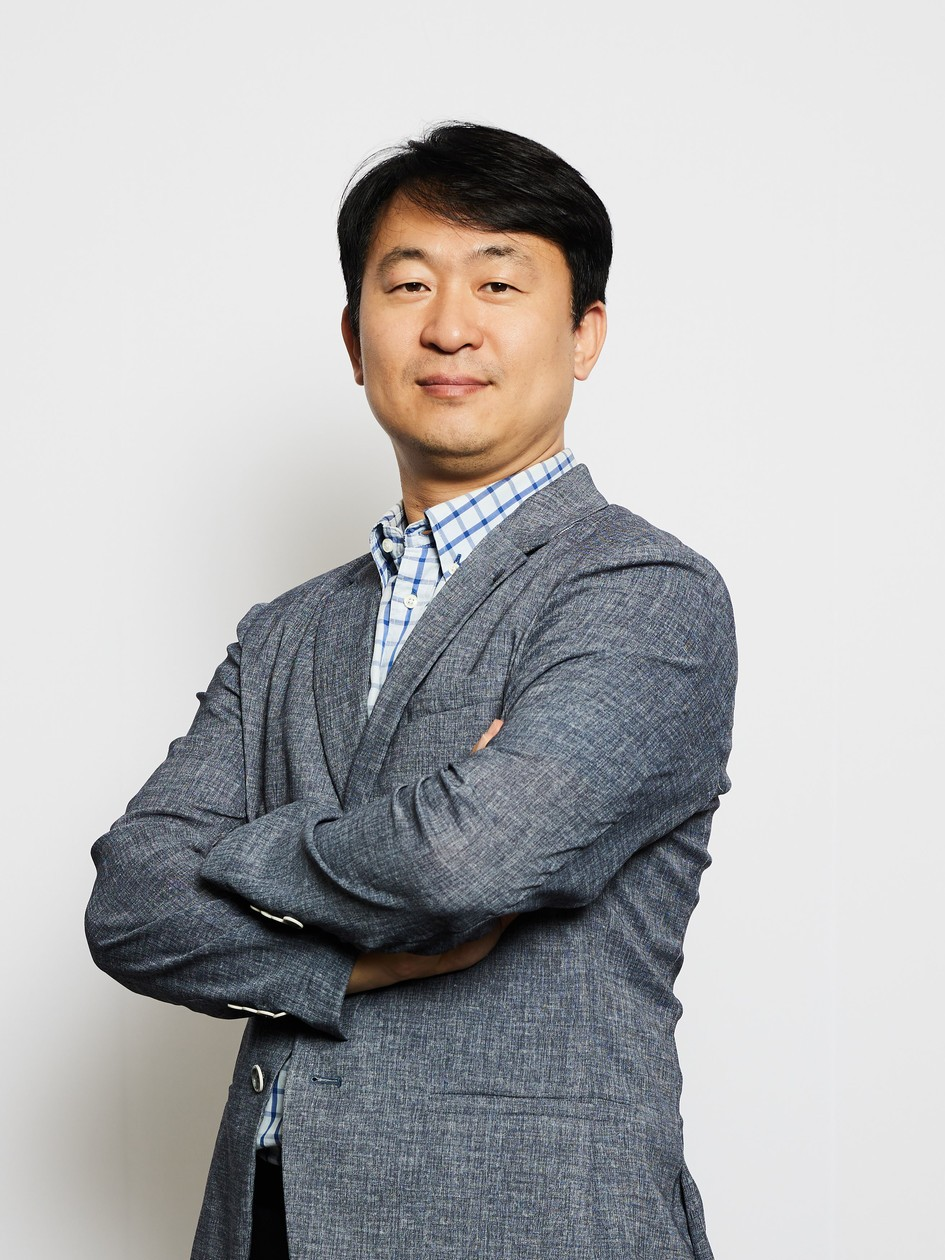
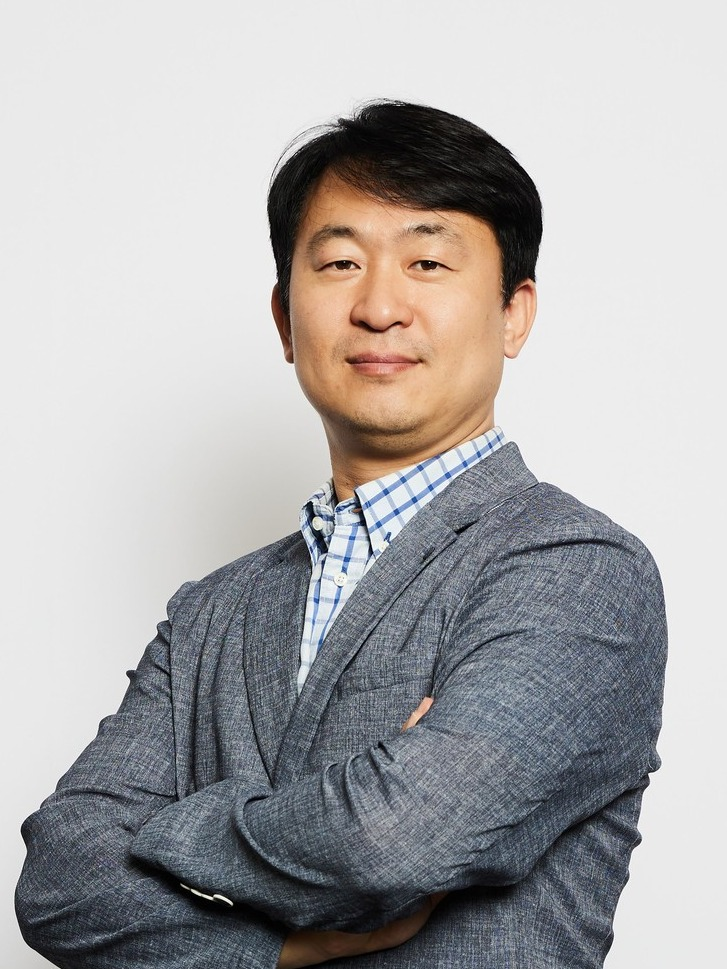
회사소개: CTO 사진을 확대해 대표 사진과 얼굴 크기 맞춤
Claude-Session: https://claude.ai/code/session_0186SxMVPzQwVPf5ydA6fVUR

diff --git a/about-stegavision.html b/about-stegavision.html
@@ -114,7 +114,7 @@
         </div>
       </div>
       <div class="member">
-        <div class="photo"><img src="assets/img/team-cto.jpg" alt="정성윤 CTO" width="945" height="1260"></div>
+        <div class="photo"><img src="assets/img/team-cto.jpg?v=2" alt="정성윤 CTO" width="727" height="969"></div>
         <div class="body">
           <h3>CTO • Advisor</h3>
           <p class="name">정성윤</p>

diff --git a/src/pages/about-stegavision.html b/src/pages/about-stegavision.html
@@ -79,7 +79,7 @@
         </div>
       </div>
       <div class="member">
-        <div class="photo"><img src="assets/img/team-cto.jpg" alt="정성윤 CTO" width="945" height="1260"></div>
+        <div class="photo"><img src="assets/img/team-cto.jpg?v=2" alt="정성윤 CTO" width="727" height="969"></div>
         <div class="body">
           <h3>CTO • Advisor</h3>
           <p class="name">정성윤</p>
